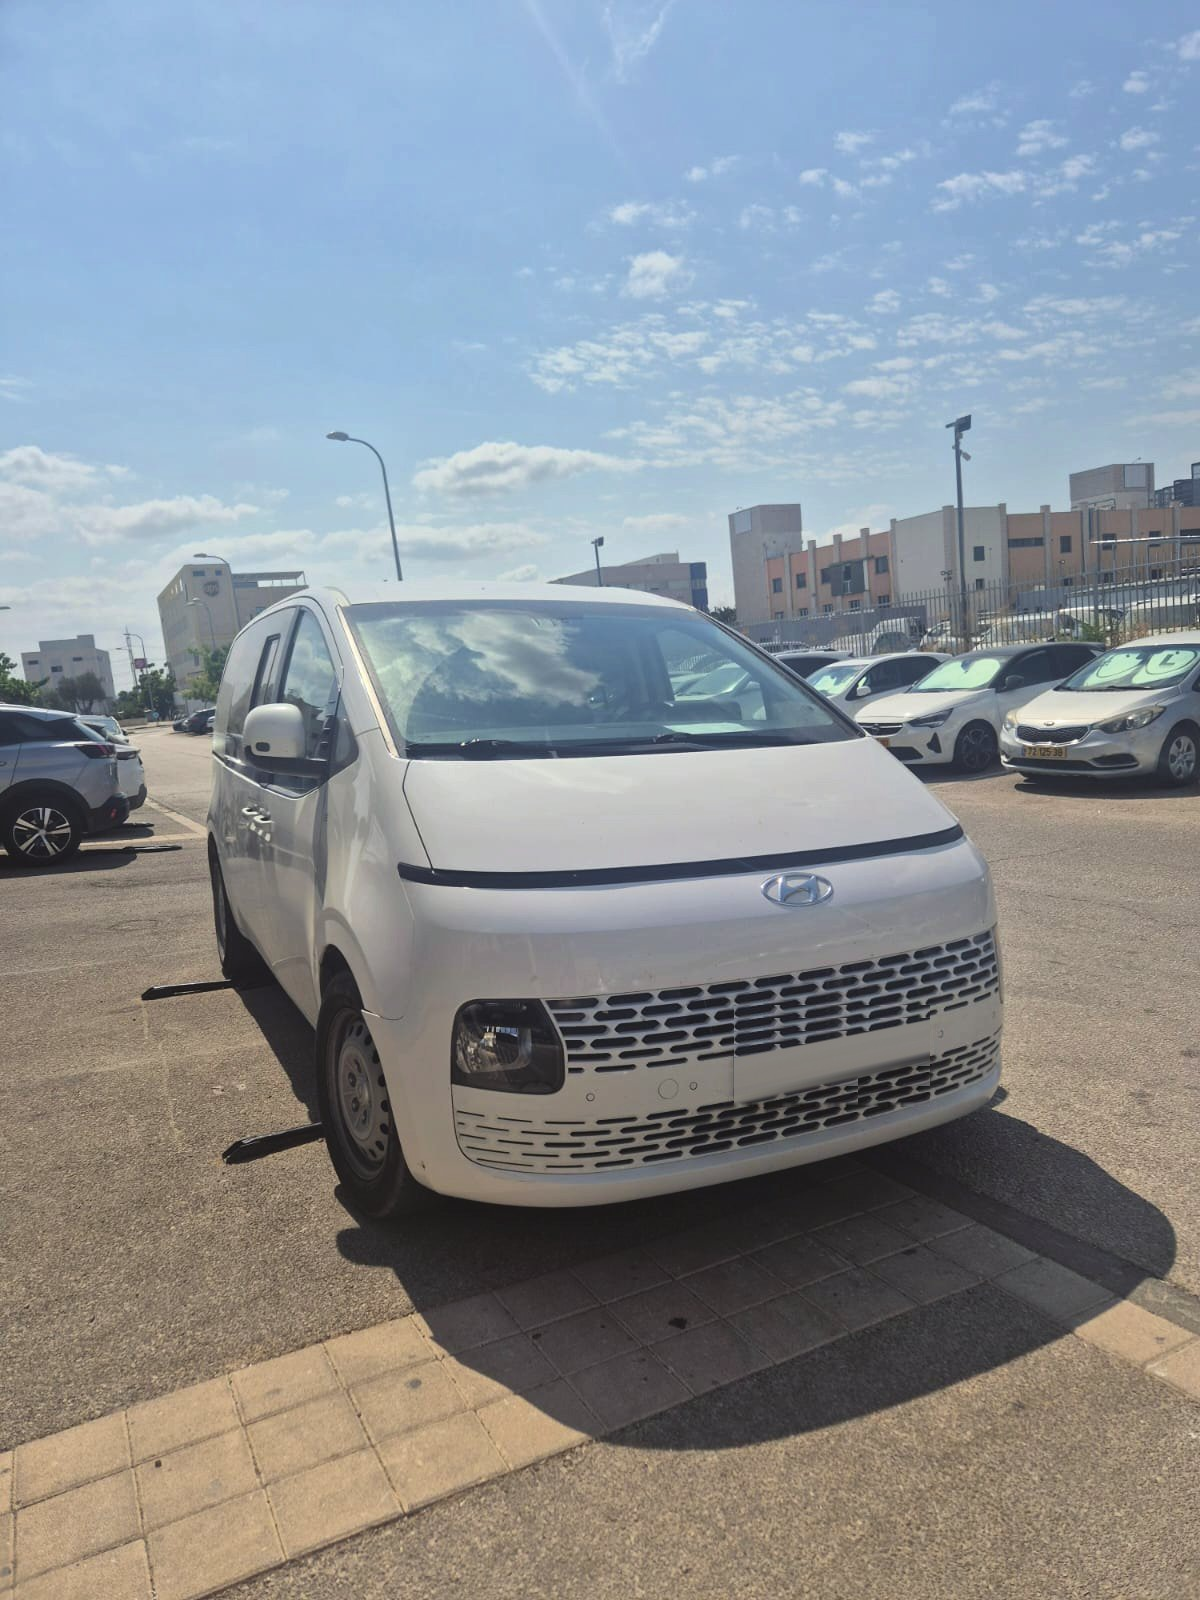
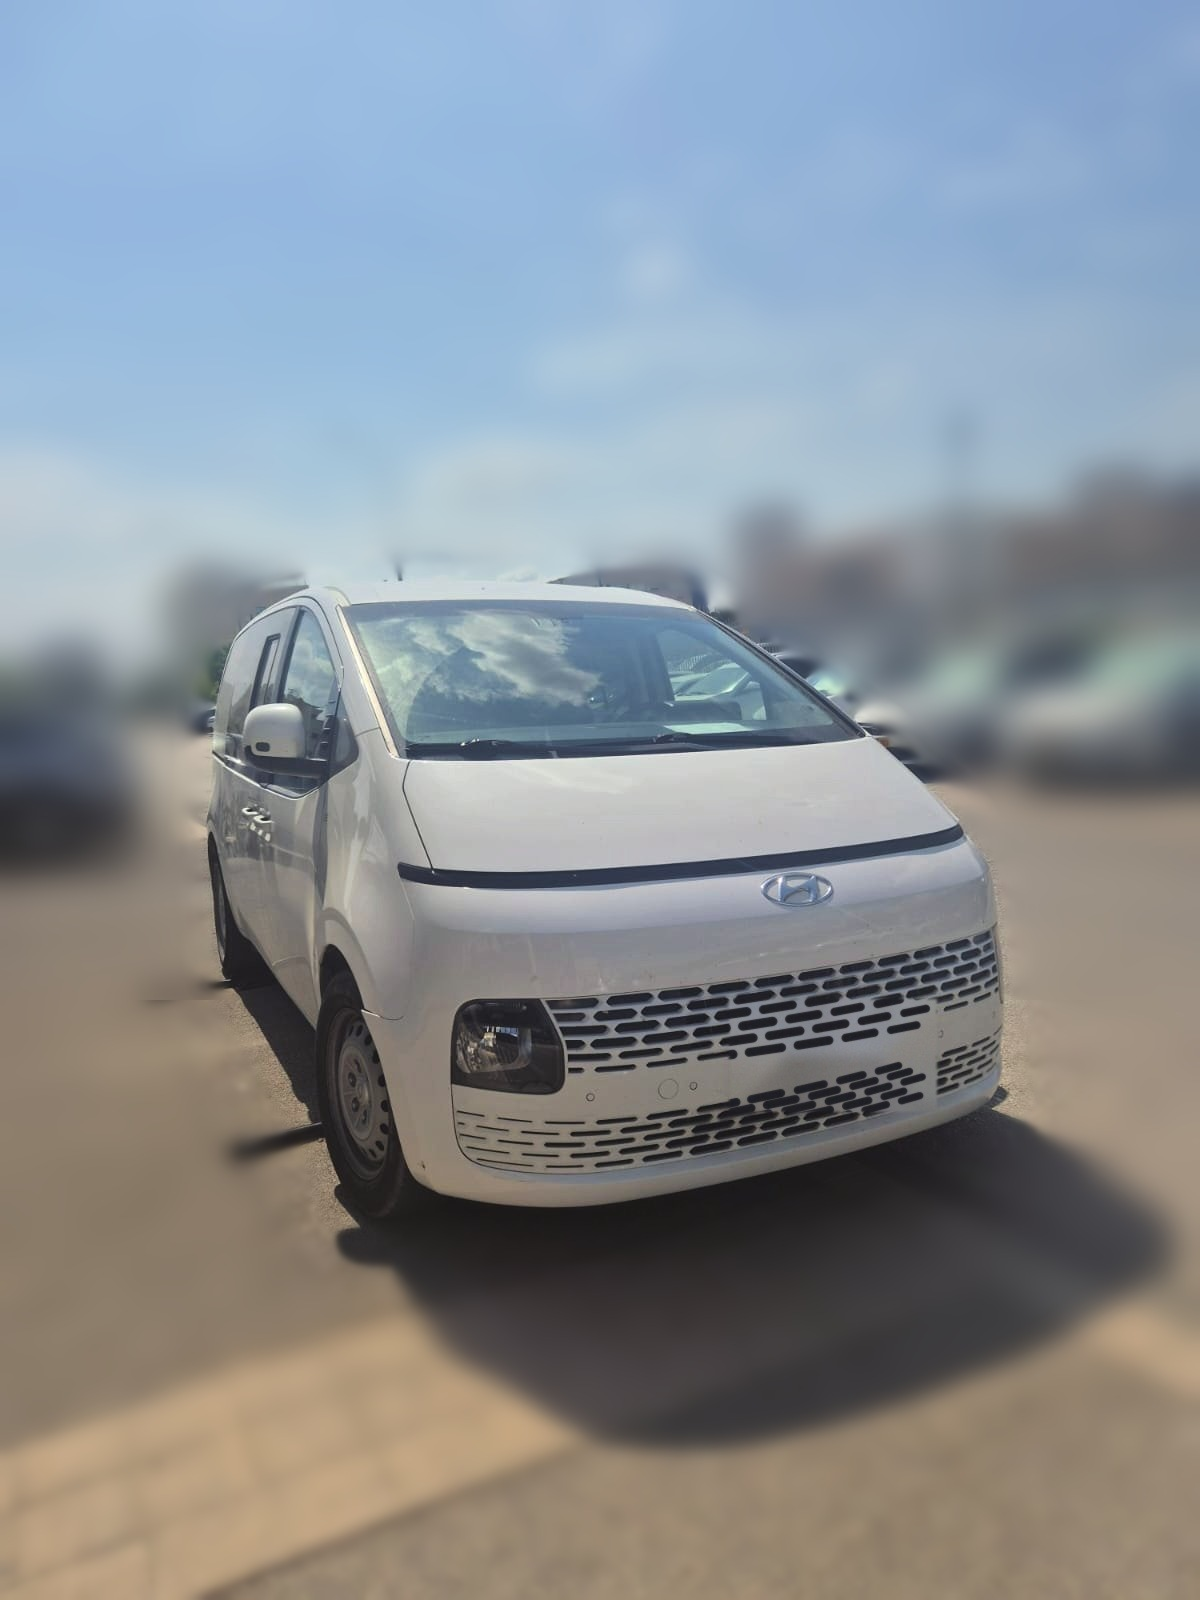
Replace the van photo with the new front view.
The lower vehicle band is cropped a little lower so the grille stays in frame.

diff --git a/css/style.css b/css/style.css
@@ -835,7 +835,7 @@ html[lang="en"] .hero h1 {
 @media (min-width: 860px) {
   .van-band img {
     height: 480px;
-    object-position: 50% 58%;
+    object-position: 50% 72%;
   }
 }
 
